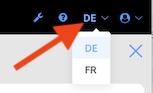
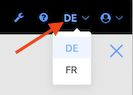
Add help content, pt. 4 (#62)

diff --git a/deploy/dmx/dev-ci/conf.d/dmx-linqa/help/page-1.html b/deploy/dmx/dev-ci/conf.d/dmx-linqa/help/page-1.html
@@ -1,21 +1,14 @@
 <h2>Welcome to Zukunftswerk platform!</h2>
 <p>
-  <img src="/linqa/config/help%2fscreen/png" class="float-left">
-  You can place documents, videos and notes on a <b>whiteboard</b> and share it with your team.
+  <img src="/linqa/config/help%2fui-overview/png" class="float-left">
+  The platform helps with overcoming language barriers by providing save <b>shared workspaces</b>.
+  A workspace comprises of both, a <b>whiteboard</b> on which texts, documents, videos, notes, and photos can be placed, and a <b>chat/discussion</b> panel.
 </p>
 <p>
-  <b>Chat</b> with your colleagues and <b>discuss</b> particular documnets.
+  The contents of both, the whiteboard, and all chat/discussion messages are <b>translated automatically</b>.
+  So everything happening on the platform is available in German and French instantly.
 </p>
 <p>
-  Benefit from <b>automatic translation</b> between French and German.
-</p>
-<p>
-  Work on bilingual documents collaboratively.
-</p>
-<p>
-  Use user roles to control access.
-</p>
-<p>
-  <img src="/linqa/config/help%2fhelp-button/png" class="float-right">
-  Use the Help-button to reopen this info.
+  <img src="/linqa/config/help%2flanguage-menu/png" class="float-right">
+  Use the upper right button to choose your preferred display language.
 </p>

diff --git a/deploy/dmx/test-ci/conf.d/dmx-linqa/help/page-1.html b/deploy/dmx/test-ci/conf.d/dmx-linqa/help/page-1.html
@@ -1,21 +1,14 @@
 <h2>Welcome to Zukunftswerk platform!</h2>
 <p>
-  <img src="/linqa/config/help%2fscreen/png" class="float-left">
-  You can place documents, videos and notes on a <b>whiteboard</b> and share it with your team.
+  <img src="/linqa/config/help%2fui-overview/png" class="float-left">
+  The platform helps with overcoming language barriers by providing save <b>shared workspaces</b>.
+  A workspace comprises of both, a <b>whiteboard</b> on which texts, documents, videos, notes, and photos can be placed, and a <b>chat/discussion</b> panel.
 </p>
 <p>
-  <b>Chat</b> with your colleagues and <b>discuss</b> particular documnets.
+  The contents of both, the whiteboard, and all chat/discussion messages are <b>translated automatically</b>.
+  So everything happening on the platform is available in German and French instantly.
 </p>
 <p>
-  Benefit from <b>automatic translation</b> between French and German.
-</p>
-<p>
-  Work on bilingual documents collaboratively.
-</p>
-<p>
-  Use user roles to control access.
-</p>
-<p>
-  <img src="/linqa/config/help%2fhelp-button/png" class="float-right">
-  Use the Help-button to reopen this info.
+  <img src="/linqa/config/help%2flanguage-menu/png" class="float-right">
+  Use the upper right button to choose your preferred display language.
 </p>

diff --git a/src/main/js/main.js b/src/main/js/main.js
@@ -8,7 +8,7 @@ import messageHandler from './message-handler'
 import './element-ui'
 import './country-flag-polyfill'
 
-console.log('[Linqa] 2024/05/19-2')
+console.log('[Linqa] 2024/05/20')
 
 // 1) Init dmx library
 dmx.init({
